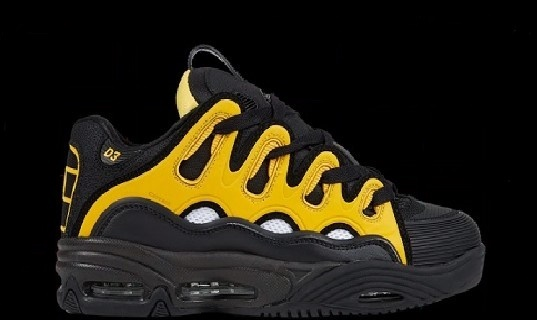
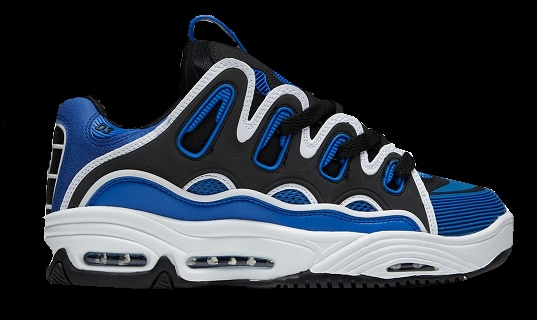
mejorando image

diff --git a/html/osiris.html b/html/osiris.html
@@ -86,10 +86,10 @@
         <div class="row row-cols-2">
           <div class="col"><img src="../images/osiris.jpg" alt="Osiris DS3" class="img-fluid"></div>
           <div class="col">
-              <h1>Osiris D3 2001</h1>
+              <h1>Osiris D3 Royal 2001</h1>
               <h5>$20.000</h5>
               <p><b>Marca:</b>  Osiris.</p>
-              <p><b>Color:</b>  Negro y amarillo.</p>
+              <p><b>Color:</b>  Negro y Azul.</p>
               <p class="item"><img src="../images/camion.jpg" alt="envios" width="30">Llega mañana</p>
               <p><img src="../images/devolucion.jpg" alt="devolucion gratis" width="30">Devolución gratis</p>
               <div class="btn-group">
